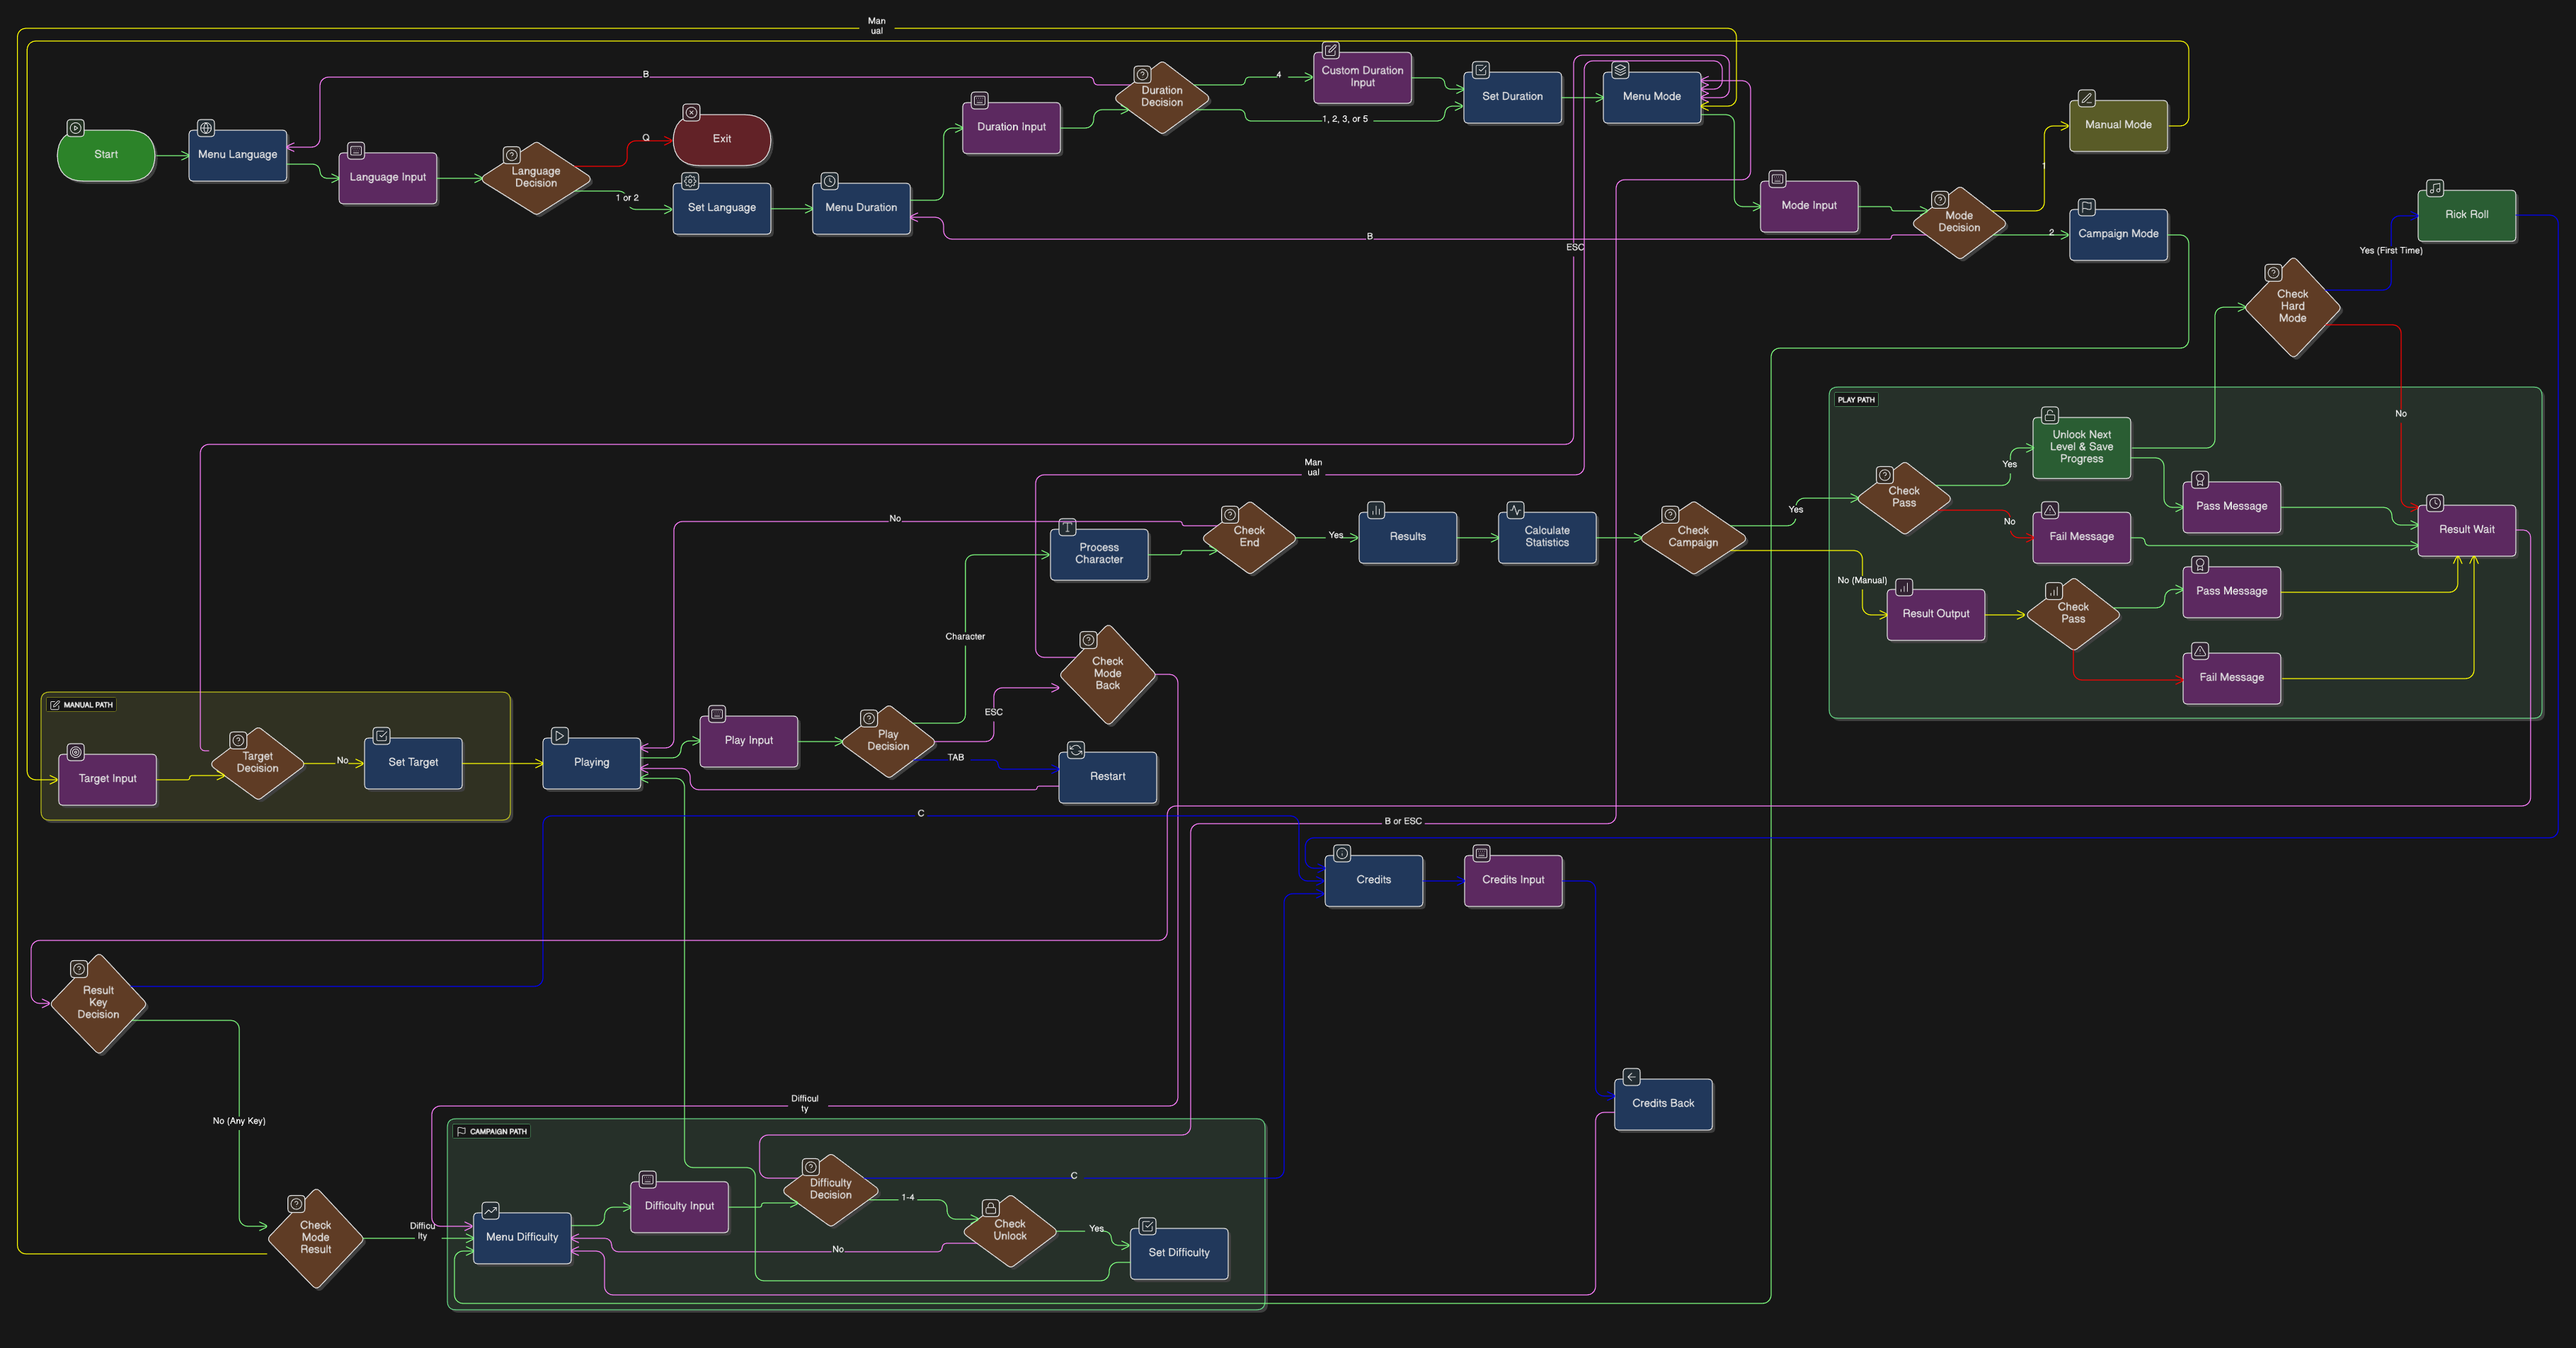
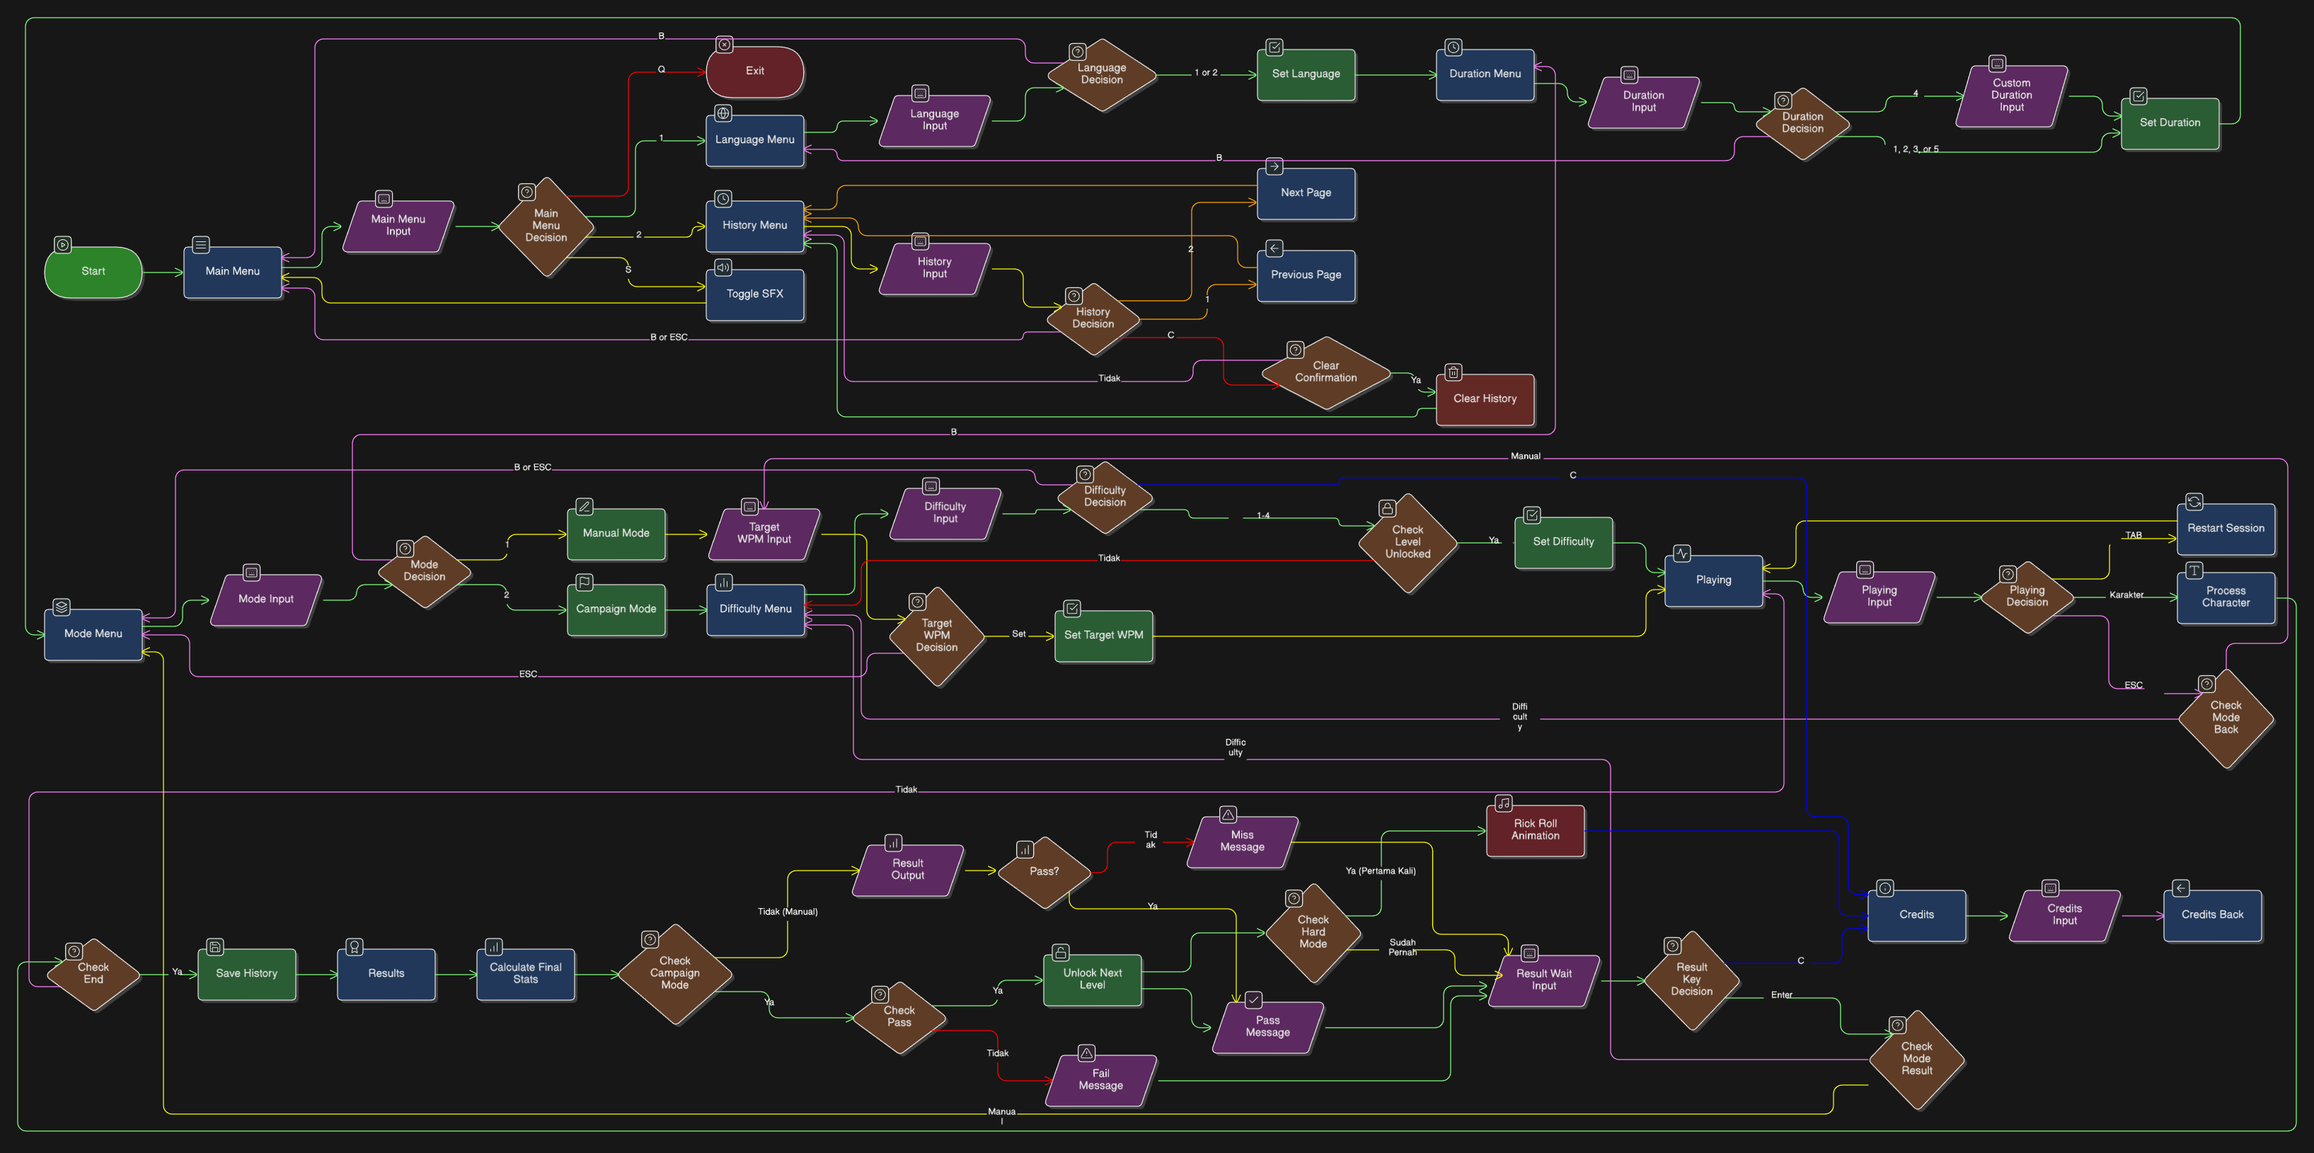
Update flow chart for improved menu navigation
Expanded the flow chart to include a new main menu and history menu with pagination, SFX toggle, and clearer navigation options. Adjusted language menu to support back navigation and updated flow to save results to history before displaying statistics.

diff --git a/documentation/flow_chart_mermaid.md b/documentation/flow_chart_mermaid.md
@@ -8,14 +8,45 @@ flowchart LR
     %% === START ===
     START([🎮 START]):::startEnd
 
-    %% === MENU LANGUAGE ===
-    START --> MENU_LANG["📍 MENU_LANGUAGE<br/>Tampilkan Menu Pilihan Bahasa"]:::process
+    %% === MENU MAIN (NEW) ===
+    START --> MENU_MAIN["📍 MENU_MAIN<br/>Tampilkan Main Menu<br/>Start / History / Quit"]:::process
     
-    MENU_LANG --> LANG_INPUT[/"⌨ Input: [1] ID , [2] EN , [Q] Quit"/]:::inputOutput
+    MENU_MAIN --> MAIN_INPUT[/"⌨ Input: [1] Start , [2] History , [Q] Quit , [S] SFX"/]:::inputOutput
+    
+    MAIN_INPUT --> MAIN_DEC{"Tombol<br/>yang ditekan?"}:::decision
+    
+    MAIN_DEC -->|"Q"| EXIT([🔚 EXIT / END]):::startEnd
+    MAIN_DEC -->|"S"| TOGGLE_SFX["Toggle SFX On/Off"]:::process
+    TOGGLE_SFX --> MENU_MAIN
+    MAIN_DEC -->|"1"| MENU_LANG
+    MAIN_DEC -->|"2"| MENU_HISTORY
+
+    %% === MENU HISTORY (NEW) ===
+    MENU_HISTORY["📍 MENU_HISTORY<br/>Tampilkan History<br/>dengan Pagination"]:::process
+    
+    MENU_HISTORY --> HIST_INPUT[/"⌨ Input: [N] Next , [P] Prev , [C] Clear , [B] Back"/]:::inputOutput
+    
+    HIST_INPUT --> HIST_DEC{"Tombol<br/>yang ditekan?"}:::decision
+    
+    HIST_DEC -->|"B / ESC"| MENU_MAIN
+    HIST_DEC -->|"N"| NEXT_PAGE["Next Page<br/>(jika ada)"]:::process
+    HIST_DEC -->|"P"| PREV_PAGE["Prev Page<br/>(jika ada)"]:::process
+    HIST_DEC -->|"C"| CLEAR_CONFIRM{"Konfirmasi<br/>Clear?"}:::decision
+    
+    NEXT_PAGE --> MENU_HISTORY
+    PREV_PAGE --> MENU_HISTORY
+    CLEAR_CONFIRM -->|"Ya"| CLEAR_HIST["Hapus Semua<br/>History"]:::process
+    CLEAR_CONFIRM -->|"Tidak"| MENU_HISTORY
+    CLEAR_HIST --> MENU_HISTORY
+
+    %% === MENU LANGUAGE ===
+    MENU_LANG["📍 MENU_LANGUAGE<br/>Tampilkan Menu Pilihan Bahasa"]:::process
+    
+    MENU_LANG --> LANG_INPUT[/"⌨ Input: [1] ID , [2] EN , [B] Back , [S] SFX"/]:::inputOutput
     
     LANG_INPUT --> LANG_DEC{"Tombol<br/>yang ditekan?"}:::decision
     
-    LANG_DEC -->|"Q"| EXIT([🔚 EXIT / END]):::startEnd
+    LANG_DEC -->|"B"| MENU_MAIN
     LANG_DEC -->|"1 atau 2"| SET_LANG["Set Bahasa<br/>(ID atau EN)"]:::process
 
     %% === MENU DURATION ===
@@ -82,7 +113,8 @@ flowchart LR
     PROCESS_CHAR --> CHK_END{"Waktu Habis<br/>atau Selesai?"}:::decision
     
     CHK_END -->|"Tidak"| PLAYING
-    CHK_END -->|"Ya"| RESULTS
+    CHK_END -->|"Ya"| SAVE_HISTORY["Simpan ke History"]:::process
+    SAVE_HISTORY --> RESULTS
 
     %% === RESULTS STATE ===
     RESULTS["📍 RESULTS<br/>Tampilkan Statistik<br/>WPM, Accuracy, Time, Errors"]:::process
